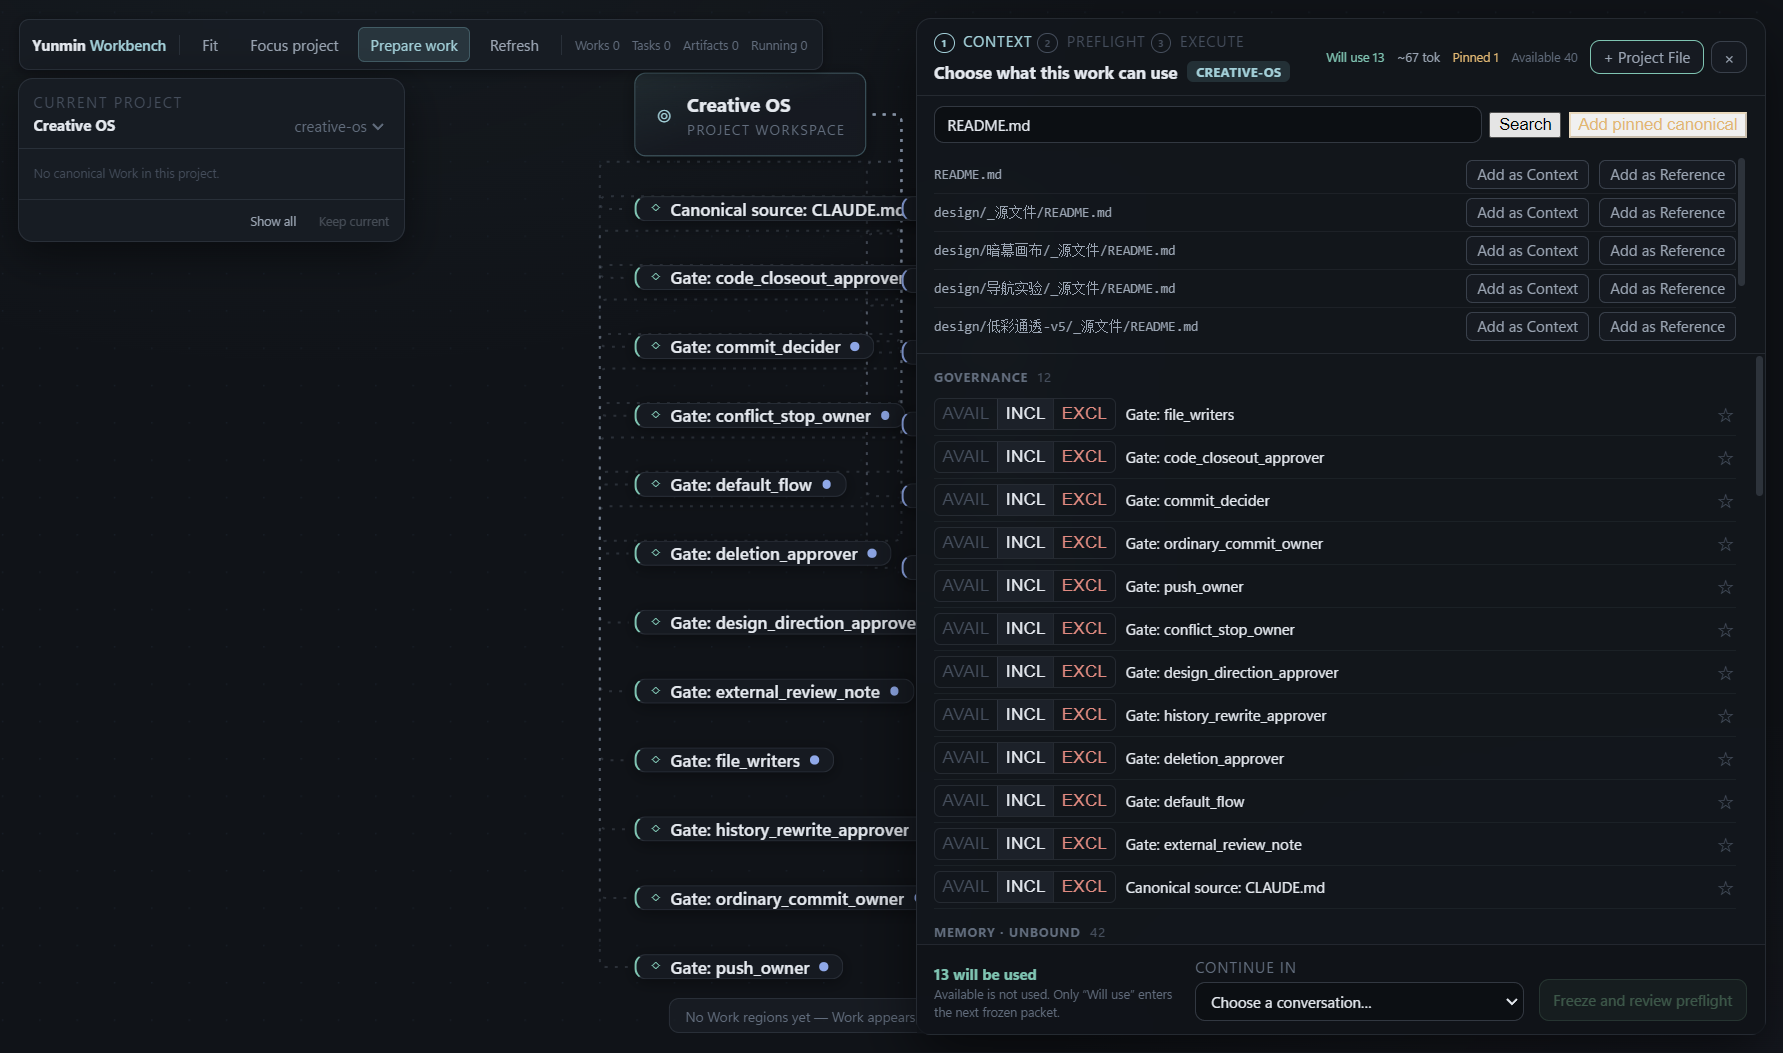
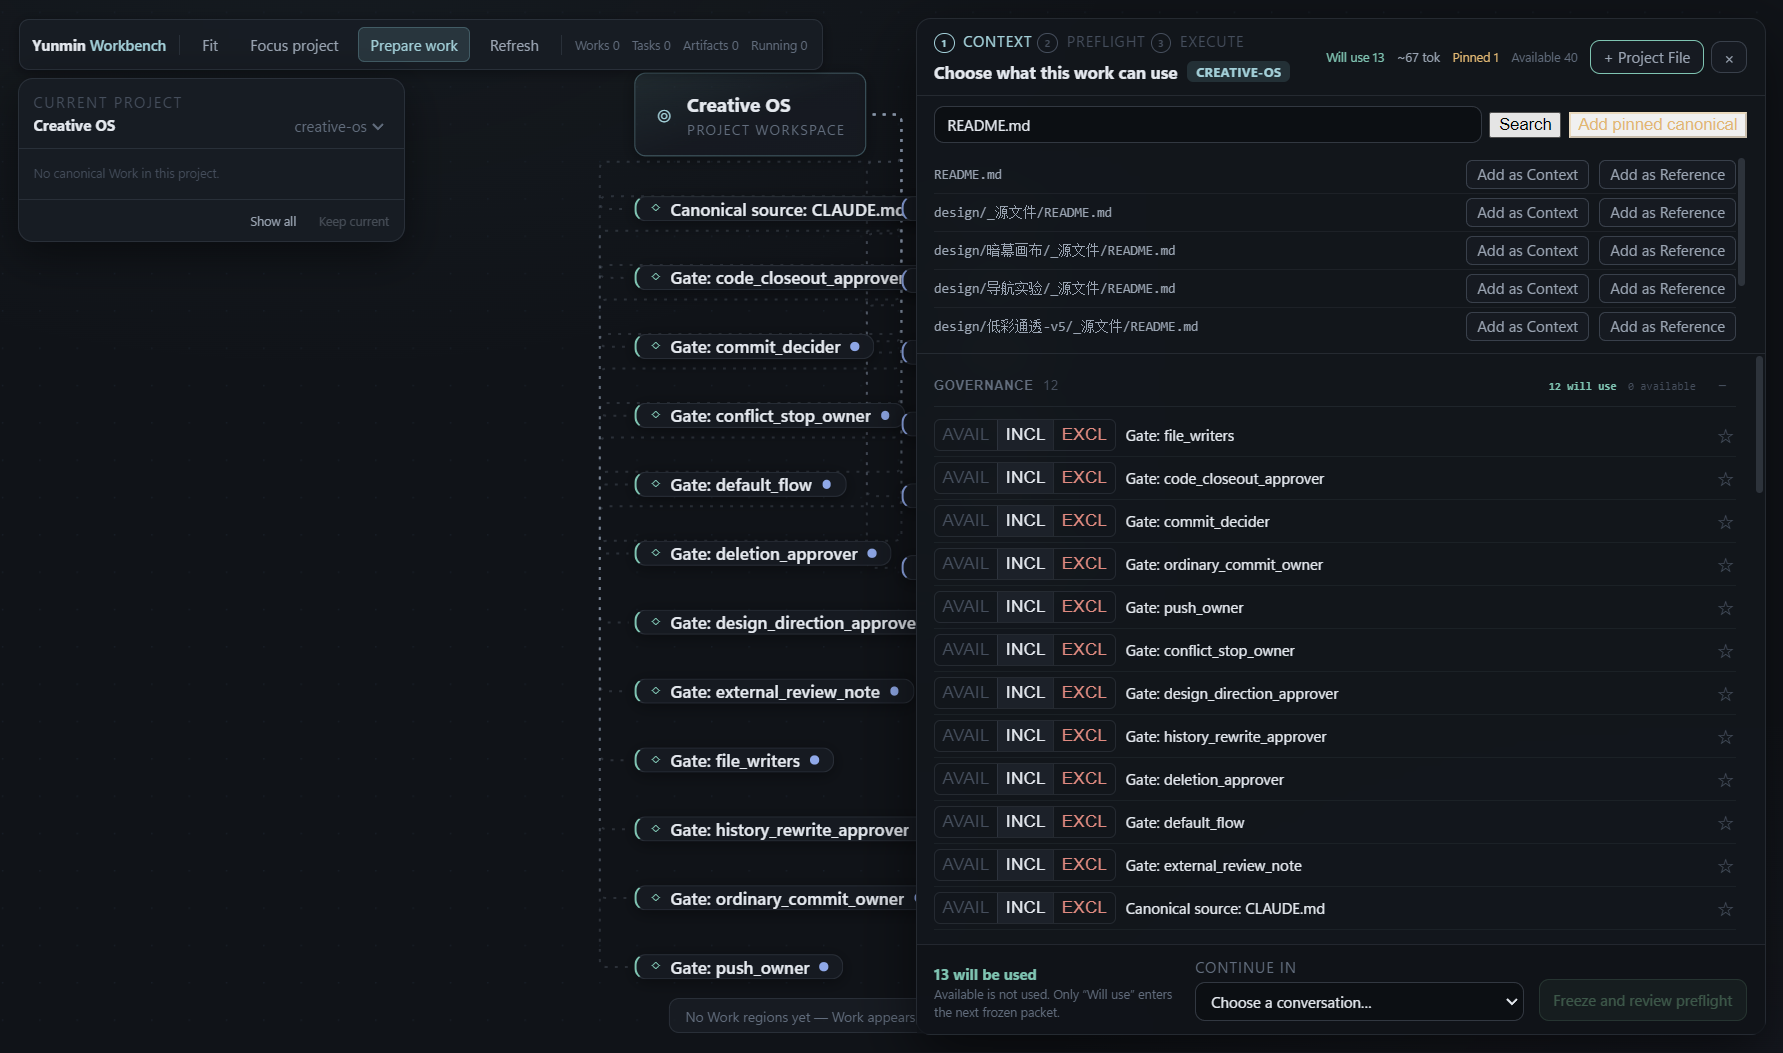
fix: reduce real context staging density

Changed region(s): [[0.5244, 0.3343, 0.7403, 0.9117]]

diff --git a/src/renderer-vnext/src/components/cabinet/ContextCabinet.tsx b/src/renderer-vnext/src/components/cabinet/ContextCabinet.tsx
@@ -129,6 +129,7 @@ export function ContextCabinet({ projectId, selection, onPrepared, onClose }: {
   const [pickerBusy, setPickerBusy] = useState(false);
   const [pickerError, setPickerError] = useState('');
   const [conversationKey, setConversationKey] = useState(selection?.conversationKey ?? '');
+  const [expandedGroups, setExpandedGroups] = useState<Set<CabinetSourceGroup>>(new Set());
 
   useEffect(() => {
     let alive = true;
@@ -141,6 +142,7 @@ export function ContextCabinet({ projectId, selection, onPrepared, onClose }: {
     setPickerOpen(false);
     setPickerQuery('');
     setPickerMatches([]);
+    setExpandedGroups(new Set());
     void (async () => {
       try {
         const loaded = await window.wb.loadOverlay();
@@ -187,12 +189,15 @@ export function ContextCabinet({ projectId, selection, onPrepared, onClose }: {
           ...(pinnedItem ? [asCabinetItem(pinnedItem, freshFingerprints)] : []),
         ];
         const decisions = new Map((staging?.decisions ?? []).map((decision) => [decision.contextId, decision]));
-        setItems(withFiles.map((item) => {
+        const hydratedItems = withFiles.map((item) => {
           const decision = decisions.get(item.id);
           return decision
             ? { ...item, state: decision.state, pinned: decision.state === 'included' ? decision.pinned : false }
             : item;
-        }));
+        });
+        setItems(hydratedItems);
+        setExpandedGroups(new Set(GROUP_ORDER.filter((group) =>
+          hydratedItems.some((item) => item.group === group && item.state !== 'available'))));
       } catch (e) {
         if (alive) setError(e instanceof Error ? e.message : String(e));
       }
@@ -366,6 +371,7 @@ export function ContextCabinet({ projectId, selection, onPrepared, onClose }: {
         setFileFingerprints((current) => [...current, entry.fingerprint]);
         setFileSelections(nextFiles);
         setItems(merged);
+        setExpandedGroups((current) => new Set(current).add('file'));
         persist(merged, nextFiles, pinnedSelected);
         setPickerOpen(false);
         setPickerQuery('');
@@ -393,6 +399,7 @@ export function ContextCabinet({ projectId, selection, onPrepared, onClose }: {
         setFileFingerprints((current) => [...current, pinned.fingerprint!]);
         setPinnedSelected(true);
         setItems(merged);
+        setExpandedGroups((current) => new Set(current).add('file'));
         persist(merged, fileSelections, true);
         setPickerOpen(false);
       } catch (e) {
@@ -555,10 +562,35 @@ export function ContextCabinet({ projectId, selection, onPrepared, onClose }: {
           {GROUP_ORDER.map((group) => {
             const groupItems = items.filter((item) => item.group === group);
             if (groupItems.length === 0) return null;
+            const expanded = expandedGroups.has(group);
+            const included = groupItems.filter((item) => item.state === 'included').length;
+            const available = groupItems.filter((item) => item.state === 'available').length;
+            const excluded = groupItems.length - included - available;
+            const listId = `cabinet-group-${group}`;
             return (
               <section className="cabinet-group" key={group}>
-                <h3>{GROUP_LABELS[group]} <span className="group-count">{groupItems.length}</span></h3>
-                <ul>
+                <h3>
+                  <button
+                    type="button"
+                    className="cabinet-group-toggle"
+                    aria-expanded={expanded}
+                    aria-controls={listId}
+                    onClick={() => setExpandedGroups((current) => {
+                      const next = new Set(current);
+                      if (next.has(group)) next.delete(group); else next.add(group);
+                      return next;
+                    })}
+                  >
+                    <span className="cabinet-group-title">{GROUP_LABELS[group]} <span className="group-count">{groupItems.length}</span></span>
+                    <span className="cabinet-group-summary">
+                      <b>{included} will use</b>
+                      <span>{available} available</span>
+                      {excluded > 0 && <span>{excluded} excluded</span>}
+                    </span>
+                    <span className="cabinet-group-marker" aria-hidden="true">{expanded ? '−' : '+'}</span>
+                  </button>
+                </h3>
+                <ul id={listId} hidden={!expanded}>
                   {groupItems.map((item) => (
                     <li key={item.id} className={`cabinet-row is-${item.state}${item.pinned ? ' is-pinned' : ''}`}>
                       <div className="cabinet-states" role="group" aria-label={`Staging state for ${item.title}`}>

diff --git a/src/renderer-vnext/src/styles/index.css b/src/renderer-vnext/src/styles/index.css
@@ -733,14 +733,51 @@ body,
 .cabinet-groups { overflow-y: auto; padding: 8px 14px 14px; }
 .cabinet-group h3 {
   margin: 12px 0 6px;
+}
+.cabinet-group:first-child h3 { margin-top: 4px; }
+.group-count { color: var(--wb-text-faint); font-weight: 500; margin-left: 4px; }
+.cabinet-group-toggle {
+  width: 100%;
+  min-height: 30px;
+  display: grid;
+  grid-template-columns: minmax(0, 1fr) auto 22px;
+  align-items: center;
+  gap: 10px;
+  border: 0;
+  border-bottom: 1px solid rgba(148, 163, 184, 0.1);
+  background: transparent;
+  color: var(--wb-text-muted);
+  padding: 3px 0 5px;
+  text-align: left;
+  cursor: pointer;
+}
+.cabinet-group-toggle:hover { color: var(--wb-text-secondary); border-bottom-color: var(--wb-border-strong); }
+.cabinet-group-toggle:focus-visible { outline: 1px solid var(--wb-accent); outline-offset: 3px; }
+.cabinet-group-title {
+  overflow: hidden;
+  text-overflow: ellipsis;
+  white-space: nowrap;
   font-size: var(--wb-fs-xs);
   font-weight: 700;
   letter-spacing: 0.08em;
   text-transform: uppercase;
-  color: var(--wb-text-muted);
 }
-.cabinet-group:first-child h3 { margin-top: 4px; }
-.group-count { color: var(--wb-text-faint); font-weight: 500; margin-left: 4px; }
+.cabinet-group-summary {
+  display: flex;
+  align-items: center;
+  gap: 9px;
+  white-space: nowrap;
+  font: 500 9px/1.2 'JetBrains Mono', Consolas, monospace;
+  color: var(--wb-text-faint);
+  letter-spacing: 0;
+  text-transform: none;
+}
+.cabinet-group-summary b { color: var(--wb-teal); font-weight: 650; }
+.cabinet-group-marker {
+  text-align: center;
+  font: 500 var(--wb-fs-sm)/1 monospace;
+  color: var(--wb-text-faint);
+}
 .cabinet-groups ul { list-style: none; margin: 0; padding: 0; }
 
 .cabinet-row {

diff --git a/e2e/workspace-visual.spec.ts b/e2e/workspace-visual.spec.ts
@@ -68,6 +68,18 @@ test('workspace visual acceptance (real facts + badged fixture)', async () => {
     await expect(cabinet).toBeVisible();
     await expect(cabinet).toContainText('Available is not used');
     await expect(cabinet).toContainText('Will use');
+    const governanceGroup = cabinet.locator('.cabinet-group', { hasText: 'Governance' });
+    const unboundMemoryGroup = cabinet.locator('.cabinet-group', { hasText: 'Memory · unbound' });
+    await expect(governanceGroup.getByRole('button', { name: /Governance/ })).toHaveAttribute('aria-expanded', 'true');
+    const memoryDisclosure = unboundMemoryGroup.getByRole('button', { name: /Memory · unbound/ });
+    await expect(memoryDisclosure).toContainText('0 will use');
+    await expect(memoryDisclosure).toHaveAttribute('aria-expanded', 'false');
+    await expect(unboundMemoryGroup.locator('ul')).toBeHidden();
+    await memoryDisclosure.click();
+    await expect(memoryDisclosure).toHaveAttribute('aria-expanded', 'true');
+    await expect(unboundMemoryGroup.locator('.cabinet-row').first()).toBeVisible();
+    await memoryDisclosure.click();
+    await expect(unboundMemoryGroup.locator('ul')).toBeHidden();
     await win.screenshot({ path: join(outDir, '42-context-cabinet-real.png') });
     await cabinet.locator('#prepare-conversation').selectOption('creative-os::claude::CO 主对话');
     await cabinet.getByRole('button', { name: 'Freeze and review preflight' }).click();
